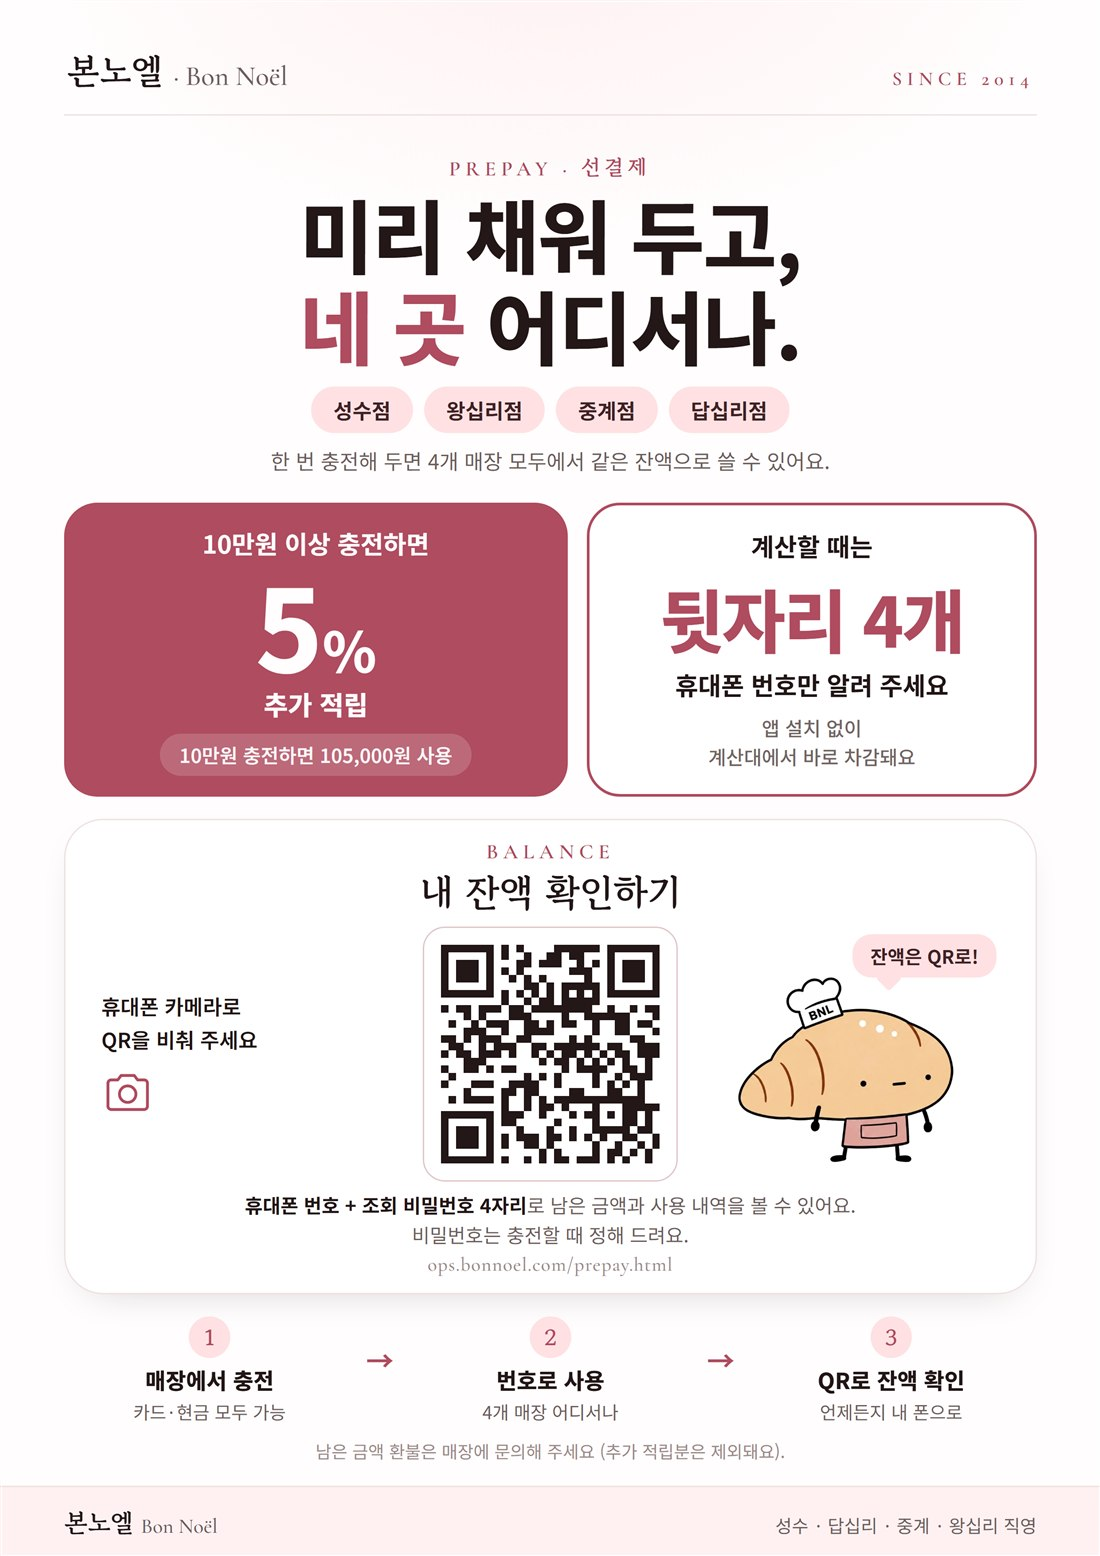
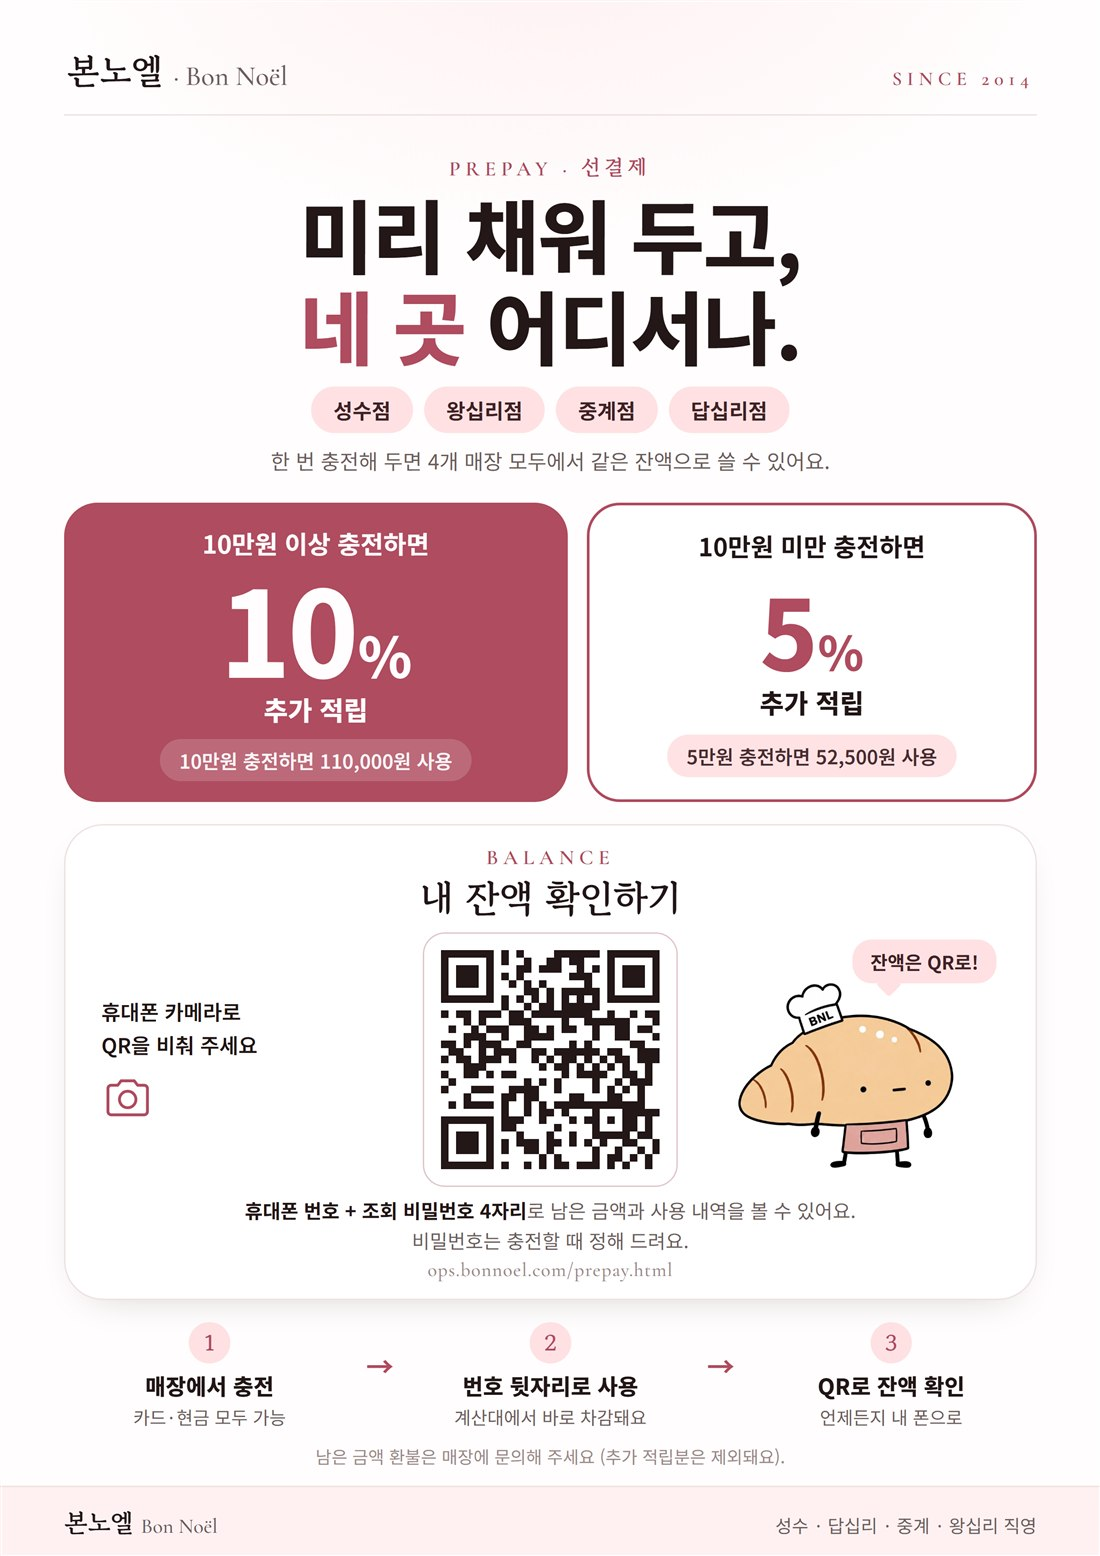
선결제 적립을 두 단계로: 10만원 이상 10% · 미만 5%(설정에서 변경). 직원 충전 미리보기·손님 안내 페이지·사장님 설정에 반영, 앱 포스터도 10/5 포스터로 교체 (SQL 재실행 필요)

diff --git a/index.html b/index.html
@@ -5126,8 +5126,8 @@
   function ppDigits(s){ return String(s || '').replace(/[^0-9]/g, ''); }
   function ppPhone(p){ p = String(p || ''); if (p.length === 11) return p.slice(0, 3) + '-' + p.slice(3, 7) + '-' + p.slice(7); if (p.length === 10) return p.slice(0, 3) + '-' + p.slice(3, 6) + '-' + p.slice(6); return p; }
   function ppMasked(p){ p = String(p || ''); return p.length >= 10 ? p.slice(0, 3) + '-****-' + p.slice(-4) : p; }
-  function ppBonus(paid){ var s = prepaySt.status || {}; var min = s.bonus_min != null ? s.bonus_min : 100000, rate = s.bonus_rate != null ? +s.bonus_rate : 5; return paid >= min ? Math.floor(paid * rate / 100) : 0; }
-  function ppRuleText(){ var s = prepaySt.status || {}; return won(s.bonus_min != null ? s.bonus_min : 100000) + '원 이상 충전하면 ' + (s.bonus_rate != null ? +s.bonus_rate : 5) + '% 추가 적립'; }
+  function ppBonus(paid){ var s = prepaySt.status || {}; var min = s.bonus_min != null ? s.bonus_min : 100000, rate = s.bonus_rate != null ? +s.bonus_rate : 5, base = s.base_rate != null ? +s.base_rate : 0; return Math.floor(paid * (paid >= min ? rate : base) / 100); }
+  function ppRuleText(){ var s = prepaySt.status || {}, min = won(s.bonus_min != null ? s.bonus_min : 100000), base = s.base_rate != null ? +s.base_rate : 0; return min + '원 이상 충전하면 ' + (s.bonus_rate != null ? +s.bonus_rate : 5) + '% 추가 적립' + (base ? ' · 미만은 ' + base + '%' : ''); }
   function ppWhen(s){ var d = new Date(s); return (d.getMonth() + 1) + '/' + d.getDate() + ' ' + pad(d.getHours()) + ':' + pad(d.getMinutes()); }
   function ppSigned(n){ return (n > 0 ? '+' : n < 0 ? '−' : '') + won(Math.abs(n)); }
   function ppPublicUrl(){ return location.origin + location.pathname.replace(/[^/]*$/, '') + 'prepay.html'; }
@@ -5282,9 +5282,9 @@
   routes['prepay-poster'] = async function(){
     await loadBase();
     var html = topbar('선결제 포스터', true, whoChip());
-    html += '<a href="pop/prepay-pop-A4.png" target="_blank" rel="noopener" style="display:block"><img src="pop/prepay-pop-web.jpg" alt="본노엘 선결제 포스터" style="width:100%;display:block;border-radius:var(--radius-l);border:1px solid var(--line);box-shadow:var(--shadow);background:var(--surface)"></a>';
+    html += '<a href="pop/prepay-pop-tier10-5-A4.png" target="_blank" rel="noopener" style="display:block"><img src="pop/prepay-pop-web.jpg" alt="본노엘 선결제 포스터" style="width:100%;display:block;border-radius:var(--radius-l);border:1px solid var(--line);box-shadow:var(--shadow);background:var(--surface)"></a>';
     html += '<div class="muted" style="margin:8px 4px">사진을 누르면 크게 열려요. 손님께 혜택이나 잔액 확인 QR을 설명할 때 보여 주세요.</div>';
-    html += '<div class="inline" style="margin-top:6px"><a class="btn" href="pop/prepay-pop-A4.pdf" target="_blank" rel="noopener">📄 인쇄용 PDF</a><a class="btn" href="pop/prepay-pop-A4.png" target="_blank" rel="noopener">🔍 큰 그림</a></div>';
+    html += '<div class="inline" style="margin-top:6px"><a class="btn" href="pop/prepay-pop-tier10-5-A4.pdf" target="_blank" rel="noopener">📄 인쇄용 PDF</a><a class="btn" href="pop/prepay-pop-tier10-5-A4.png" target="_blank" rel="noopener">🔍 큰 그림</a></div>';
     app.innerHTML = html;
   };
 
@@ -5341,7 +5341,7 @@
       }
     } else if (tabName === 'set'){
       var bset = prepaySt.status.branches || [];
-      html += '<div class="form"><div><b>추가 적립 규칙</b></div><div class="grid2"><div><label>기준 금액(원 이상)</label><input class="in" id="pp-bmin" type="number" inputmode="numeric" value="' + esc(prepaySt.status.bonus_min) + '"></div><div><label>추가 적립(%)</label><input class="in" id="pp-brate" type="number" inputmode="decimal" value="' + esc(prepaySt.status.bonus_rate) + '"></div></div><button class="btn primary" data-act="pp-set-bonus">규칙 저장</button><div class="muted">바꾸면 다음 충전부터 적용돼요. 이미 충전된 건 그대로예요.</div></div>';
+      html += '<div class="form"><div><b>추가 적립 규칙</b></div><div class="grid2"><div><label>기준 금액(원 이상)</label><input class="in" id="pp-bmin" type="number" inputmode="numeric" value="' + esc(prepaySt.status.bonus_min) + '"></div><div><label>이상일 때 추가 적립(%)</label><input class="in" id="pp-brate" type="number" inputmode="decimal" value="' + esc(prepaySt.status.bonus_rate) + '"></div></div><div><label>기준 금액 미만일 때 추가 적립(%) · 0이면 적립 없음</label><input class="in" id="pp-bbase" type="number" inputmode="decimal" value="' + esc(prepaySt.status.base_rate != null ? prepaySt.status.base_rate : 0) + '"></div><button class="btn primary" data-act="pp-set-bonus">규칙 저장</button><div class="muted">바꾸면 다음 충전부터 적용돼요. 이미 충전된 건 그대로예요.</div></div>';
       html += '<div class="group-title">매장 코드 (6자리 · 그 매장 직원만 알게)</div><div class="card">' + base.branches.map(function(b){ return '<div class="item"><div class="iname"><div class="t">' + esc(b.name) + ' ' + (bset.indexOf(b.id) >= 0 ? '<span class="badge ok">정해짐</span>' : '<span class="badge danger">없음</span>') + '</div></div><input class="in" id="pp-bc-' + esc(b.id) + '" type="password" inputmode="numeric" maxlength="6" placeholder="새 코드" style="width:110px" autocomplete="off"><button class="btn sm primary" data-act="pp-set-code" data-id="' + esc(b.id) + '">정하기</button></div>'; }).join('') + '</div>';
       html += '<div class="muted" style="margin:6px 4px">직원이 그만두면 그 매장 코드를 바꿔 주세요. 코드는 암호화돼 있어 여기서도 다시 볼 수 없어요.</div>';
       html += '<div class="group-title">사장님 코드 바꾸기</div><div class="form"><input class="in" id="pp-bc-owner" type="password" inputmode="numeric" maxlength="6" placeholder="새 사장님 코드 6자리" autocomplete="off"><button class="btn" data-act="pp-set-code" data-id="">바꾸기</button></div>';
@@ -5474,16 +5474,17 @@
     toast('정했어요'); render();
   }
   async function ppSetBonus(){
-    var min = num(ppVal('pp-bmin')), rate = num(ppVal('pp-brate'));
+    var min = num(ppVal('pp-bmin')), rate = num(ppVal('pp-brate')), base = num(ppVal('pp-bbase'));
+    if (base == null) base = 0;
     if (min == null || rate == null){ toast('기준 금액과 %를 넣어 주세요'); return; }
-    await ppCall('prepay_set_bonus', { p_code: prepaySt.code, p_min: Math.round(min), p_rate: rate });
+    await ppCall('prepay_set_bonus', { p_code: prepaySt.code, p_min: Math.round(min), p_rate: rate, p_base: base });
     toast('규칙을 저장했어요'); render();
   }
 
   // 시연 모드(?demo=1)용: DB 함수와 같은 규칙을 메모리에서 흉내 (코드: 사장님 000000, 성수 111111, 왕십리 222222, 중계 333333, 답십리 444444)
   function ppMemRpc(T, fn, a){
     if (!T.__pp){
-      T.__pp = { owner: '000000', codes: { b1: '111111', b2: '222222', b3: '333333', b4: '444444' }, bonus_min: 100000, bonus_rate: 5 };
+      T.__pp = { owner: '000000', codes: { b1: '111111', b2: '222222', b3: '333333', b4: '444444' }, bonus_min: 100000, bonus_rate: 10, base_rate: 5 };
       T.prepay_customers = [ { id: 'pc1', phone: '01012345678', name: '김단골', pin: '1234' }, { id: 'pc2', phone: '01098765432', name: '성수 디자인랩', pin: null } ];
       T.prepay_ledger = [
         { id: 'pl1', customer_id: 'pc1', kind: 'charge', amount: 105000, paid: 100000, bonus: 5000, branch_id: 'b1', staff_name: '알바 A', created_at: daysAgo(3) },
@@ -5499,7 +5500,7 @@
     var byId = function(id){ return L.filter(function(l){ return l.id === id; })[0]; };
     var dec = function(l){ return Object.assign({}, l, { canceled: L.some(function(z){ return z.cancel_of === l.id; }), orig_kind: l.cancel_of ? (byId(l.cancel_of) || {}).kind : null }); };
     var add = function(row){ L.push(Object.assign({ id: uid(), paid: 0, bonus: 0, branch_id: a.p_branch, staff_name: staffName(a.p_staff), by_owner: role === 'owner', created_at: new Date().toISOString() }, row)); };
-    if (fn === 'prepay_status') return { ready: !!S.owner, bonus_min: S.bonus_min, bonus_rate: S.bonus_rate, branches: Object.keys(S.codes) };
+    if (fn === 'prepay_status') return { ready: !!S.owner, bonus_min: S.bonus_min, bonus_rate: S.bonus_rate, base_rate: S.base_rate || 0, branches: Object.keys(S.codes) };
     if (fn === 'prepay_owner_init'){ if (S.owner) return err('사장님 코드가 이미 정해져 있어요'); S.owner = a.p_code; return { ok: true }; }
     var code = a.p_code || a.p_owner_code;
     var role = code && code === S.owner ? 'owner' : (code && S.codes[a.p_branch] === code ? 'branch' : null);
@@ -5518,7 +5519,7 @@
         return { ok: true, role: role, customer: { id: c.id, phone: c.phone, name: c.name, has_pin: !!c.pin }, balance: b, bonus_left: bon(c.id), refundable: Math.max(0, b - bon(c.id)),
           ledger: L.filter(function(l){ return l.customer_id === c.id; }).map(dec).sort(function(x, y){ return x.created_at < y.created_at ? 1 : -1; }) };
       case 'prepay_charge': {
-        var ph = ppDigits(a.p_phone), extra = a.p_paid >= S.bonus_min ? Math.floor(a.p_paid * S.bonus_rate / 100) : 0;
+        var ph = ppDigits(a.p_phone), extra = Math.floor(a.p_paid * (a.p_paid >= S.bonus_min ? S.bonus_rate : (S.base_rate || 0)) / 100);
         c = C.filter(function(x){ return x.phone === ph; })[0];
         if (!c){ c = { id: uid(), phone: ph, name: a.p_name || null, pin: a.p_pin || null }; C.push(c); }
         else { if (a.p_name) c.name = a.p_name; if (a.p_pin) c.pin = a.p_pin; }
@@ -5556,7 +5557,7 @@
         return { ok: true, added: added, skipped: skipped, bad: 0 };
       }
       case 'prepay_set_code': if (a.p_branch) S.codes[a.p_branch] = a.p_new_code; else S.owner = a.p_new_code; return { ok: true };
-      case 'prepay_set_bonus': S.bonus_min = a.p_min; S.bonus_rate = a.p_rate; return { ok: true };
+      case 'prepay_set_bonus': S.bonus_min = a.p_min; S.bonus_rate = a.p_rate; S.base_rate = a.p_base || 0; return { ok: true };
     }
     return err('모르는 기능: ' + fn);
   }

diff --git a/prepay.html b/prepay.html
@@ -131,14 +131,14 @@
     <p class="eyebrow">Prepay</p>
     <h1>미리 채워 두고,<br><em>네 곳</em> 어디서나 편하게.</h1>
     <p class="lead">본노엘 선결제는 매장에서 미리 충전해 두고 계산할 때 휴대폰 번호로 쓰는 방식이에요. 앱 설치는 필요 없어요.</p>
-    <div class="bonus-card" id="bonus"><div class="big">10만원 이상 충전하면 5% 더</div><div class="ex">예: 100,000원 충전 → 105,000원 사용</div></div>
+    <div class="bonus-card" id="bonus"><div class="big">10만원 이상 충전하면 10% 더</div><div class="ex">예: 100,000원 충전 → 110,000원 사용 · 10만원 미만은 5% 더</div></div>
   </section>
 
   <section class="section">
     <div class="section-head"><p class="eyebrow">How to</p><h2>이용 방법</h2></div>
     <ol class="steps">
       <li><span class="num">1</span><div><h3>매장에서 충전해요</h3><p>계산대에서 "선결제 충전할게요"라고 말씀하시고 휴대폰 번호와 금액을 알려 주세요.</p></div></li>
-      <li><span class="num">2</span><div><h3>카드나 현금으로 결제해요</h3><p>결제가 끝나면 바로 충전되고, <span id="bonus-step">10만원 이상이면 5%를 더 넣어 드려요</span>.</p></div></li>
+      <li><span class="num">2</span><div><h3>카드나 현금으로 결제해요</h3><p>결제가 끝나면 바로 충전되고, <span id="bonus-step">10만원 이상이면 10%, 10만원 미만이어도 5%를 더 넣어 드려요</span>.</p></div></li>
       <li><span class="num">3</span><div><h3>번호로 편하게 써요</h3><p>다음부터는 "선결제로 할게요"라고 말씀하시고 번호 뒷자리를 알려 주세요. 쓴 만큼 빠져요.</p></div></li>
       <li><span class="num">4</span><div><h3>남은 돈은 폰으로 확인해요</h3><p>충전할 때 조회 비밀번호 4자리를 정하면 아래에서 언제든 잔액과 내역을 볼 수 있어요.</p></div></li>
     </ol>
@@ -220,7 +220,7 @@
   function esc(s){ return String(s == null ? '' : s).replace(/[&<>"']/g, function(c){ return {'&':'&amp;','<':'&lt;','>':'&gt;','"':'&quot;',"'":'&#39;'}[c]; }); }
   async function rpc(fn, args){
     if (DEMO){
-      if (fn === 'prepay_status') return { ready: true, bonus_min: 100000, bonus_rate: 5 };
+      if (fn === 'prepay_status') return { ready: true, bonus_min: 100000, bonus_rate: 10, base_rate: 5 };
       if (args.p_pin !== '1234') return { ok: false, error: '비밀번호가 틀려요 (시연: 1234)' };
       return { ok: true, name: '김단골', balance: 93000, ledger: [
         { kind: 'use', amount: -12000, bonus: 0, branch: '왕십리점', created_at: new Date(Date.now() - 864e5).toISOString() },
@@ -233,11 +233,16 @@
   // 적립 규칙은 사장님이 바꿀 수 있어서 서버에서 받아 옴
   rpc('prepay_status', {}).then(function(s){
     if (!s || s.bonus_min == null) return;
-    var min = s.bonus_min > 0 && s.bonus_min % 10000 === 0 ? won(s.bonus_min / 10000) + '만' : won(s.bonus_min), rate = +s.bonus_rate;
-    if (!rate){ $('bonus').hidden = true; $('bonus-step').textContent = '충전한 금액 그대로 쓸 수 있어요'; return; }
+    var min = s.bonus_min > 0 && s.bonus_min % 10000 === 0 ? won(s.bonus_min / 10000) + '만' : won(s.bonus_min), rate = +s.bonus_rate, base = +(s.base_rate || 0);
+    if (!rate && !base){ $('bonus').hidden = true; $('bonus-step').textContent = '충전한 금액 그대로 쓸 수 있어요'; return; }
     var ex = s.bonus_min > 0 ? s.bonus_min : 100000;
-    $('bonus').innerHTML = '<div class="big">' + min + '원 이상 충전하면 ' + rate + '% 더</div><div class="ex">예: ' + won(ex) + '원 충전 → ' + won(ex + Math.floor(ex * rate / 100)) + '원 사용</div>';
-    $('bonus-step').textContent = min + '원 이상이면 ' + rate + '%를 더 넣어 드려요';
+    if (rate){
+      $('bonus').innerHTML = '<div class="big">' + min + '원 이상 충전하면 ' + rate + '% 더</div><div class="ex">예: ' + won(ex) + '원 충전 → ' + won(ex + Math.floor(ex * rate / 100)) + '원 사용' + (base ? ' · ' + min + '원 미만은 ' + base + '% 더' : '') + '</div>';
+      $('bonus-step').textContent = base ? min + '원 이상이면 ' + rate + '%, ' + min + '원 미만이어도 ' + base + '%를 더 넣어 드려요' : min + '원 이상이면 ' + rate + '%를 더 넣어 드려요';
+    } else {
+      $('bonus').innerHTML = '<div class="big">' + min + '원 미만 충전도 ' + base + '% 더</div><div class="ex">충전한 금액의 ' + base + '%를 더 넣어 드려요</div>';
+      $('bonus-step').textContent = '충전한 금액의 ' + base + '%를 더 넣어 드려요';
+    }
   }).catch(function(){});
 
   function when(s){ var d = new Date(s); return (d.getMonth() + 1) + '월 ' + d.getDate() + '일'; }

diff --git a/pop/README.md b/pop/README.md
@@ -9,5 +9,5 @@ QR = https://ops.bonnoel.com/prepay.html (스캔 확인함). 소금이: `sogeumi
 - `prepay-pop2-only10-A4.*` — 2차 새 구도, **10만원 이상 10%만** 표시(7% 등 다른 구간 언급 없음). 앱 설정(선결제 관리 → 설정)에서 기준 100000원·적립 10%로 바꾸면 **지금 앱으로 바로 가능**.
 - `prepay-pop-v1-10pct-A4.*` — 1차 구도에서 **10만원 이상 10%**로 바꾸고, 하단에 작게 **5만원 초과~10만원 미만 7%** 안내(7만원 충전 → 74,900원). 7% 구간은 앱이 아직 계산 못 함 — 앱 구간 적립 필요.
 
-**앱 "선결제 포스터" 화면에 걸린 파일 = `prepay-pop-A4.*`(5% 판, 2026-10-03 사장님 확정). 앱 규칙(10만원 이상 5%)과 같음. 포스터를 바꿀 땐 `prepay-pop-web.jpg`(폰용 1100px)·`prepay-pop-A4.png/pdf`를 같은 이름으로 덮어쓰면 앱에 바로 반영됨.**
-- `prepay-pop-tier10-5-A4.*` — 1차 구도, **10만원 이상 10% · 10만원 미만 5%**(가영이네식 두 단계). 앱은 아직 "10만원 미만 5%"를 계산 못 함(기준 금액 이상만 적립) — 이 POP를 붙이려면 앱에 기본 적립률 추가 필요.
+**앱 "선결제 포스터" 화면에 걸린 파일 = `prepay-pop-tier10-5-A4.*`(10만원 이상 10% · 미만 5%, 2026-10-03 사장님 확정) + 폰용 `prepay-pop-web.jpg`(같은 포스터, 1100px). 앱 적립 규칙도 같은 값(10만원 이상 10% · 미만 5%). 포스터를 다시 바꿀 땐 web.jpg와 A4 파일을 새로 뽑고 index.html의 'prepay-poster' 화면 파일명을 맞출 것.**
+- `prepay-pop-tier10-5-A4.*` — 1차 구도, **10만원 이상 10% · 10만원 미만 5%**(가영이네식 두 단계). 앱도 이 규칙을 지원함(설정의 "기준 금액 미만일 때 추가 적립").

diff --git a/기획/선결제_설계.md b/기획/선결제_설계.md
@@ -4,7 +4,7 @@
 월 3만원 유료 선불권 앱을 운영 앱 안의 무료 기능으로 대체. 참고: gayoungene-prepay.vercel.app (신청서만 받고 잔액은 POS에 있음 → 우리는 잔액 장부까지 직접 가짐).
 
 ## 규칙
-- 충전: 매장에서 카드·현금으로 받고 직원이 기록. 한 번에 **10만원 이상이면 5% 추가 적립** (예: 10만 → 105,000). 기준·비율은 사장님이 앱에서 바꿀 수 있음(prepay_settings).
+- 충전: 매장에서 카드·현금으로 받고 직원이 기록. **한 번에 10만원 이상이면 10% 추가 적립, 10만원 미만이면 5%** (예: 10만 → 110,000 / 5만 → 52,500). 기준 금액·두 비율은 사장님이 앱 설정에서 바꿀 수 있음(prepay_settings.bonus_min · bonus_rate · base_rate, 2026-10-03 두 단계로 확장. 미만 비율 0이면 "이상일 때만" 적립).
 - 사용: 4매장 공용 잔액. 계산대에서 번호 뒷자리 → 직원이 이름 확인 → 금액 빼기. 잔액 넘게 못 씀. **영수증 사진(선택, 2026-09-24 추가)**: 사용할 때 사진 찍기/고르기 또는 화면 캡처 Ctrl+V로 첨부 가능(필수 아님). receipts 버킷 `prepay/` 경로, prepay_ledger.photo_path.
 - 손님 1명 = 휴대폰 번호 1개 (단체는 대표 번호).
 - 잘못 입력: 기록은 지우지 않고 "취소" 줄을 새로 남김. 매장 코드로는 **오늘 우리 매장 기록만** 취소, 사장님 코드는 전부.
